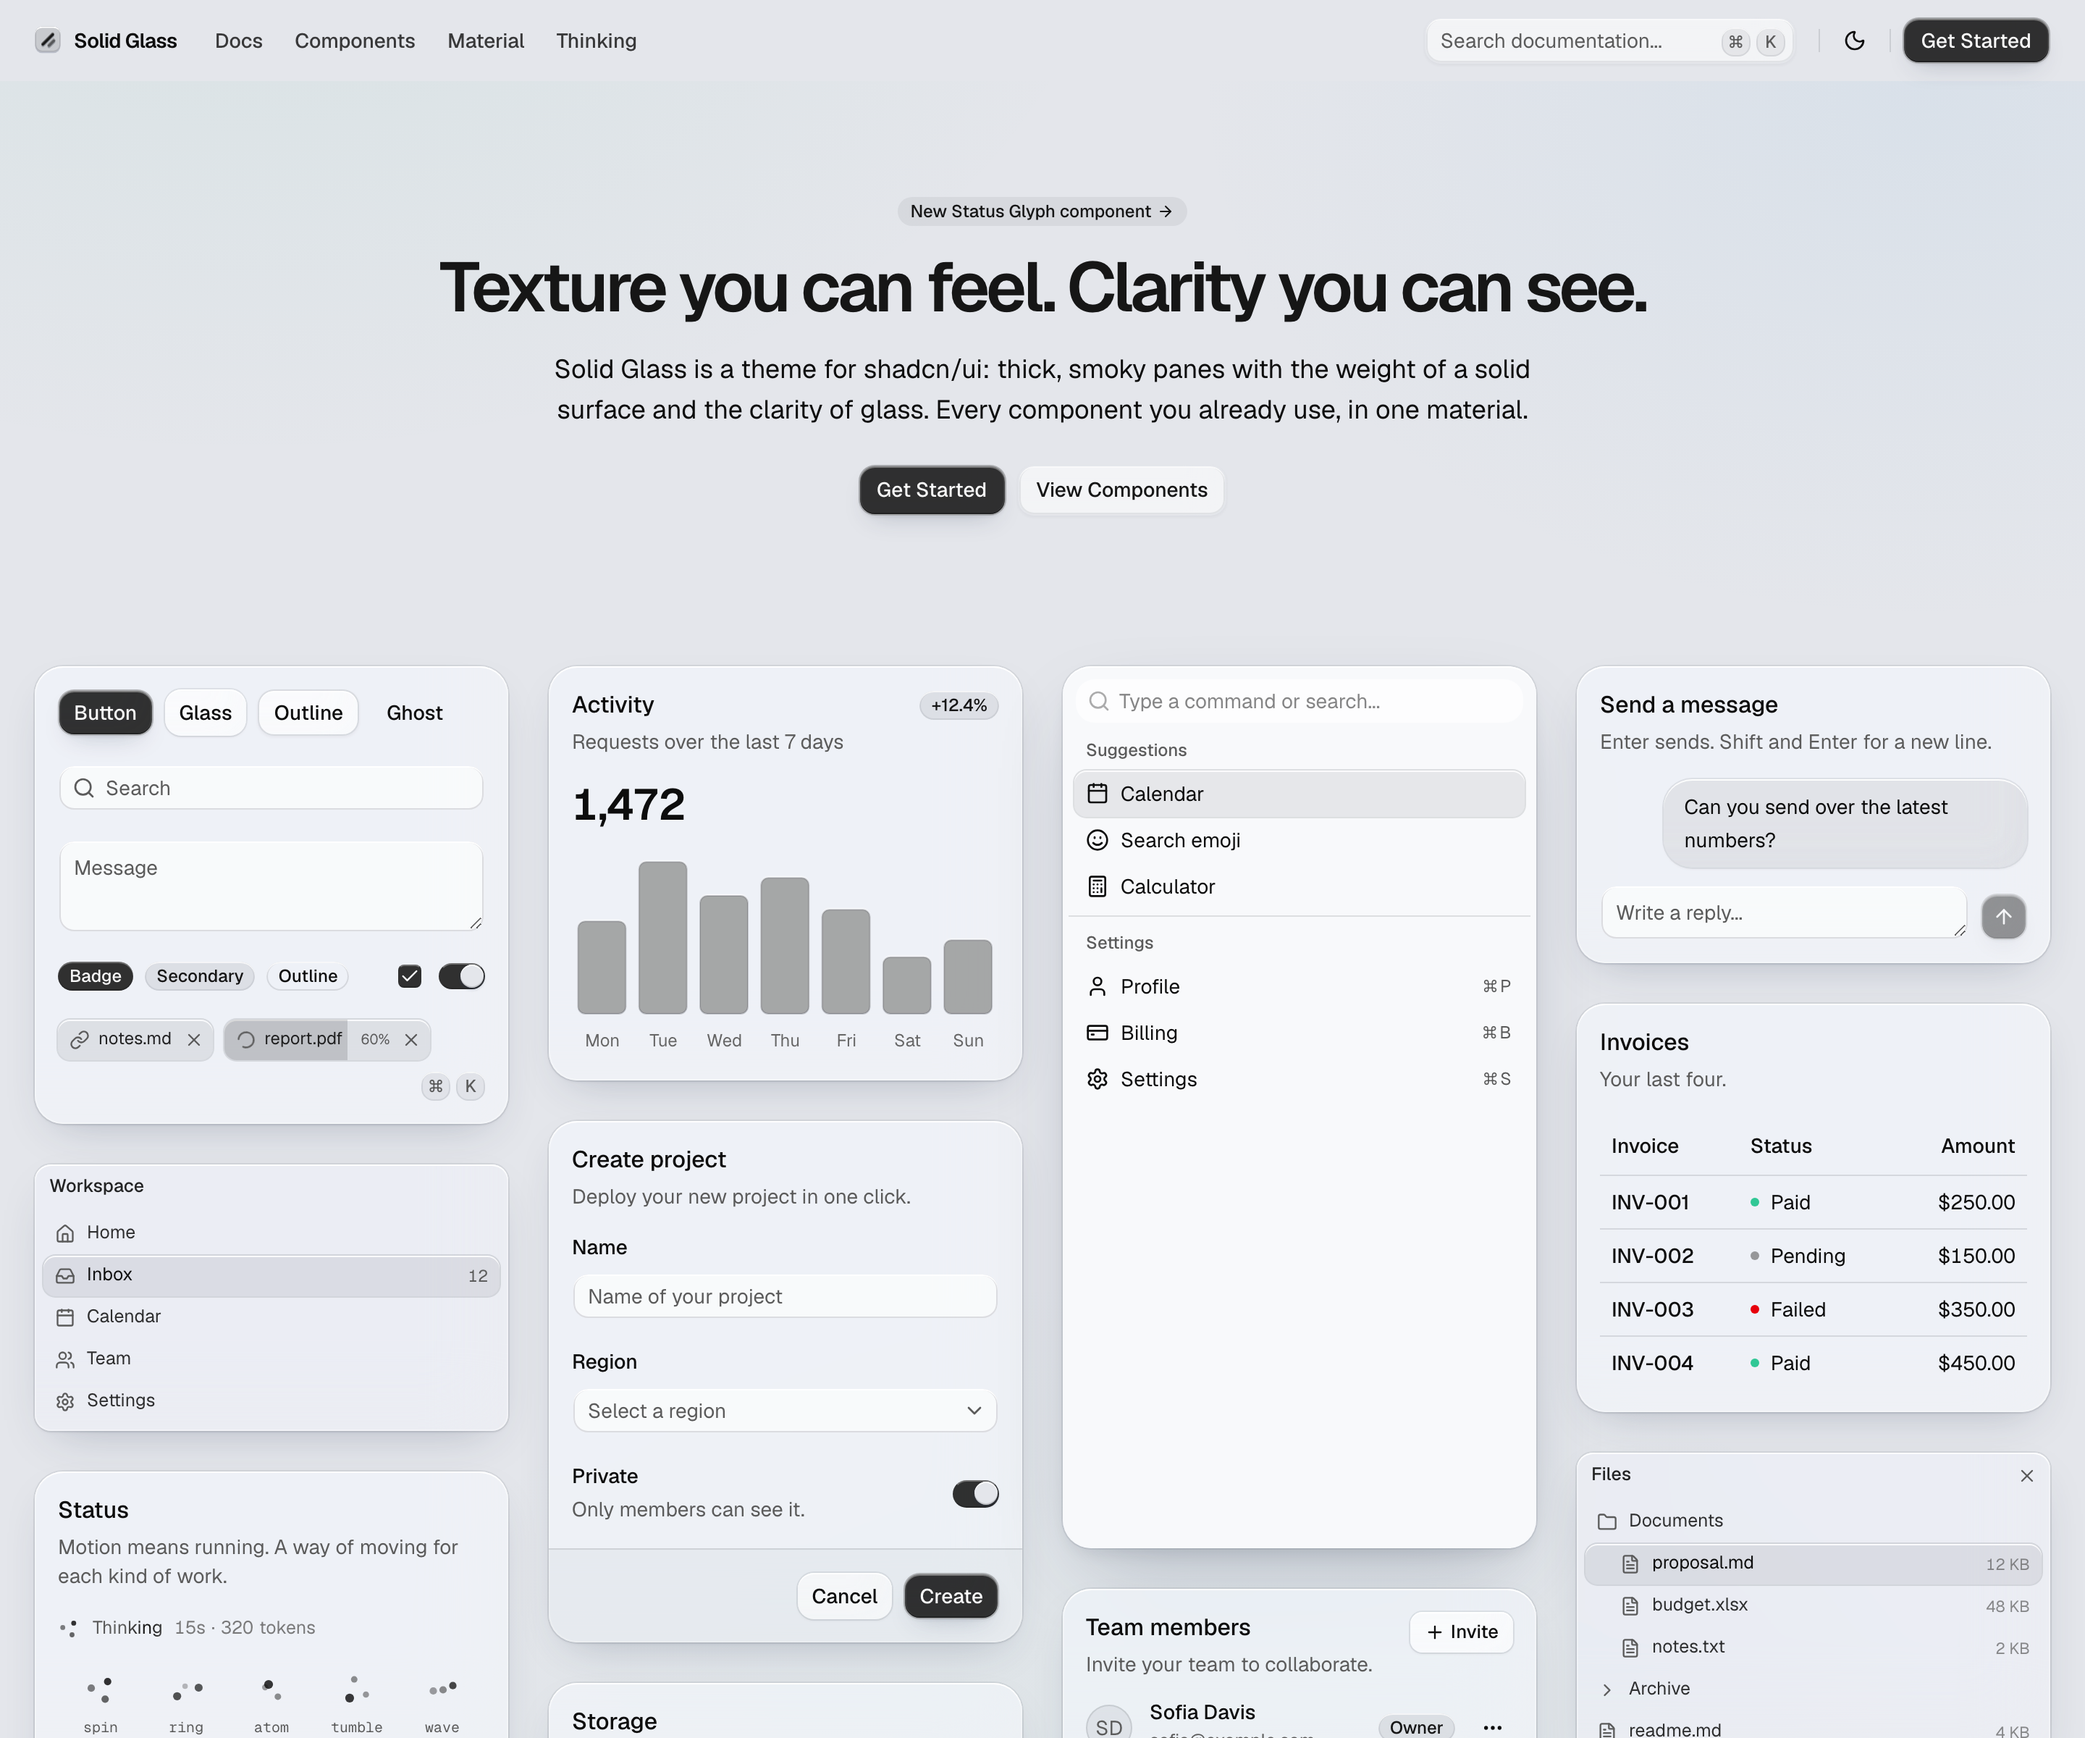
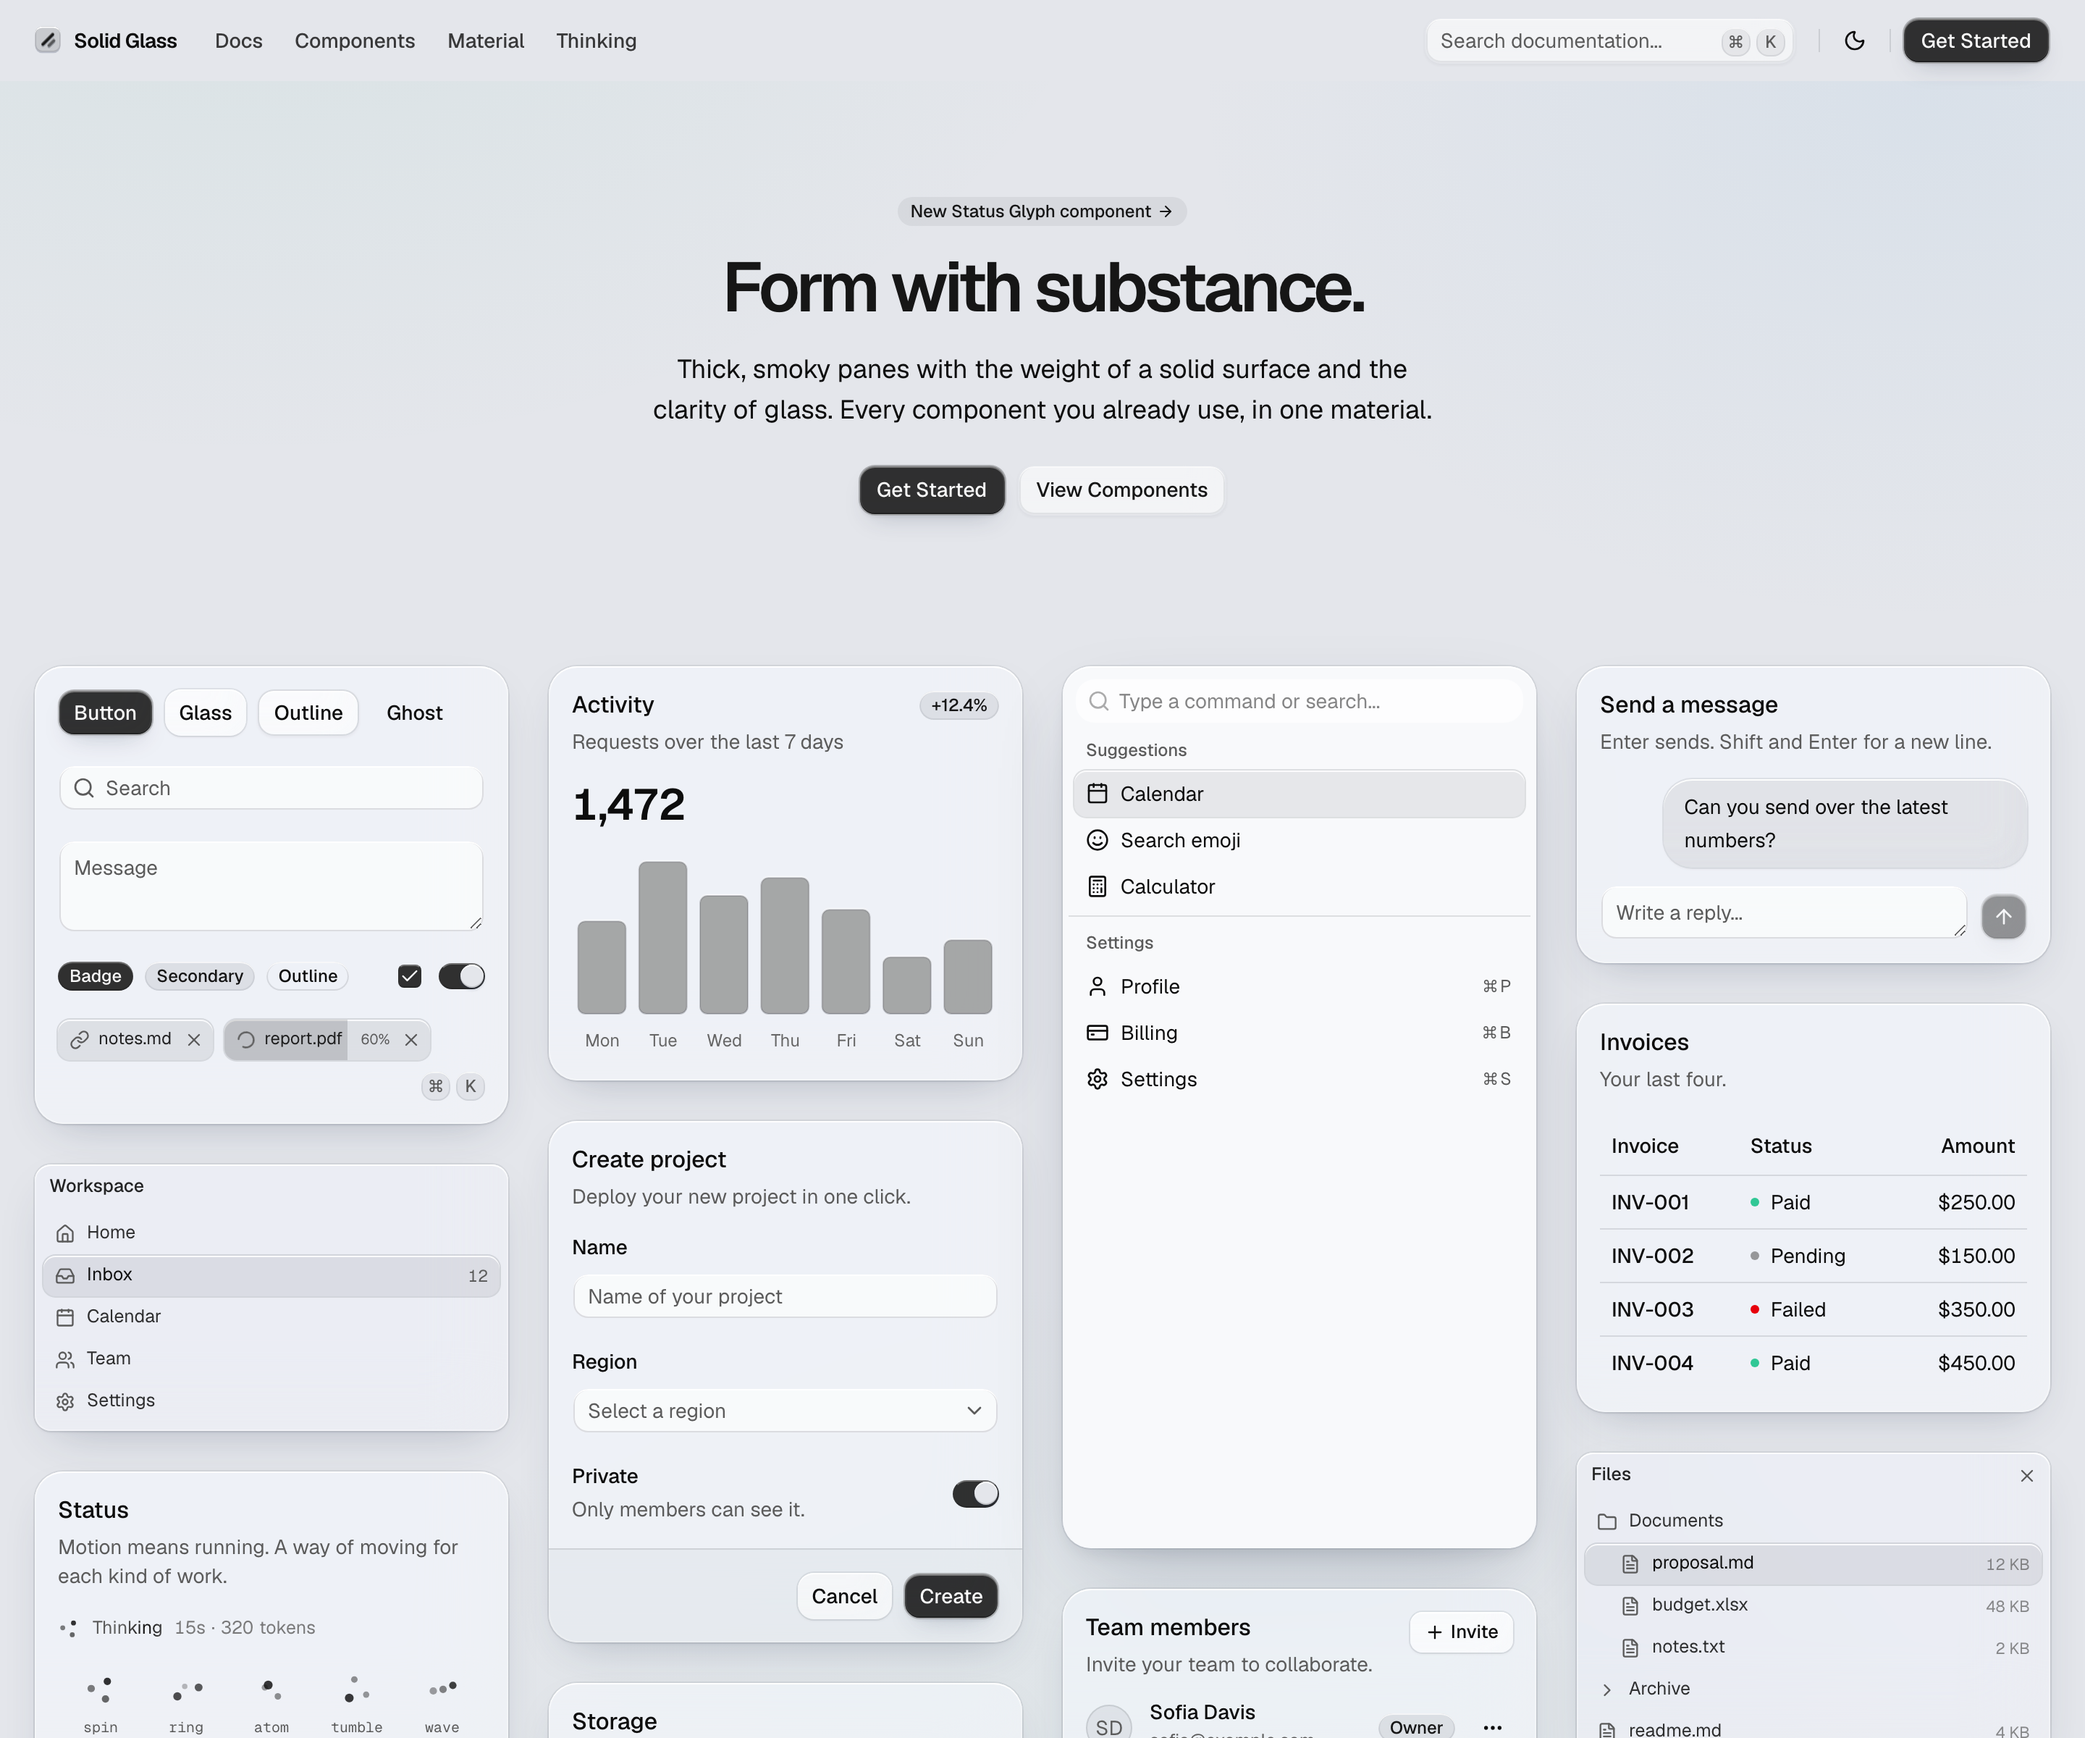
Say what it is on the home page: form with substance
The headline is the tagline, and the page speaks for the material rather
than for what it is built on; the footer still credits shadcn/ui and Base UI.

Changed region(s): [[0.2188, 0.1562, 0.7812, 0.25]]

diff --git a/src/site/site-footer.tsx b/src/site/site-footer.tsx
@@ -4,13 +4,17 @@ export function SiteFooter() {
       <div className="container-wrapper px-4 xl:px-6">
         <div className="flex h-(--footer-height) items-center justify-between">
           <div className="w-full px-1 text-center text-xs leading-loose text-muted-foreground sm:text-sm">
-            Solid Glass is a theme for{" "}
+            Built on{" "}
             <a href="https://ui.shadcn.com" target="_blank" rel="noreferrer" className="font-medium underline underline-offset-4">
               shadcn/ui
-            </a>
-            . The components and their examples are shadcn/ui's, on{" "}
+            </a>{" "}
+            and{" "}
             <a href="https://base-ui.com" target="_blank" rel="noreferrer" className="font-medium underline underline-offset-4">
               Base UI
+            </a>
+            . The source is on{" "}
+            <a href="https://github.com/WaylandYang/solid-glass" target="_blank" rel="noreferrer" className="font-medium underline underline-offset-4">
+              GitHub
             </a>
             .
           </div>

diff --git a/src/pages/home.tsx b/src/pages/home.tsx
@@ -14,10 +14,10 @@ export function Home() {
         <Link to="/docs/components/status-glyph" className={cn(badgeVariants({ variant: "secondary" }), "bg-muted")}>
           New Status Glyph component <ArrowRightIcon />
         </Link>
-        <PageHeaderHeading className="max-w-4xl">Texture you can feel. Clarity you can see.</PageHeaderHeading>
+        <PageHeaderHeading className="max-w-4xl">Form with substance.</PageHeaderHeading>
         <PageHeaderDescription>
-          Solid Glass is a theme for shadcn/ui: thick, smoky panes with the weight of a solid surface and the clarity of glass. Every
-          component you already use, in one material.
+          Thick, smoky panes with the weight of a solid surface and the clarity of glass. Every component you already use, in one
+          material.
         </PageHeaderDescription>
         <PageActions>
           <Link to="/docs/installation" className={cn(buttonVariants(), "h-[35px] px-3")}>

diff --git a/index.html b/index.html
@@ -3,8 +3,8 @@
   <head>
     <meta charset="UTF-8" />
     <meta name="viewport" content="width=device-width, initial-scale=1.0" />
-    <title>Solid Glass - Texture you can feel. Clarity you can see.</title>
-    <meta name="description" content="Solid Glass is a theme for shadcn/ui: thick, smoky panes with the weight of a solid surface and the clarity of glass." />
+    <title>Solid Glass - Form with substance.</title>
+    <meta name="description" content="Form with substance. Thick, smoky panes with the weight of a solid surface and the clarity of glass." />
     <link rel="icon" type="image/svg+xml" href="/favicon.svg?v=5" />
     <script>
       // Before first paint: the saved choice, otherwise dark, which is the material as designed.
